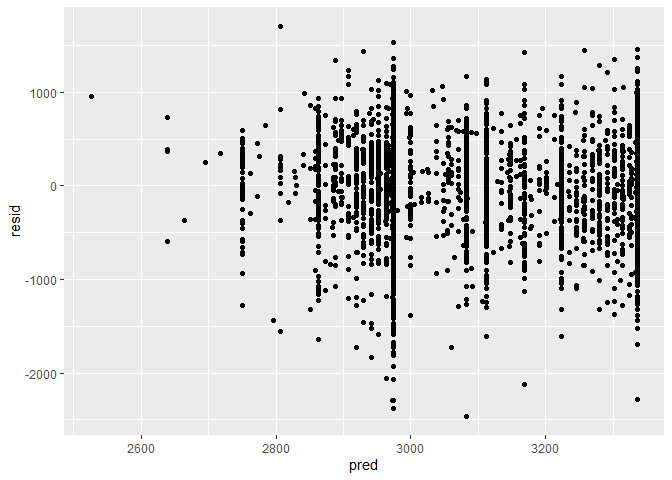
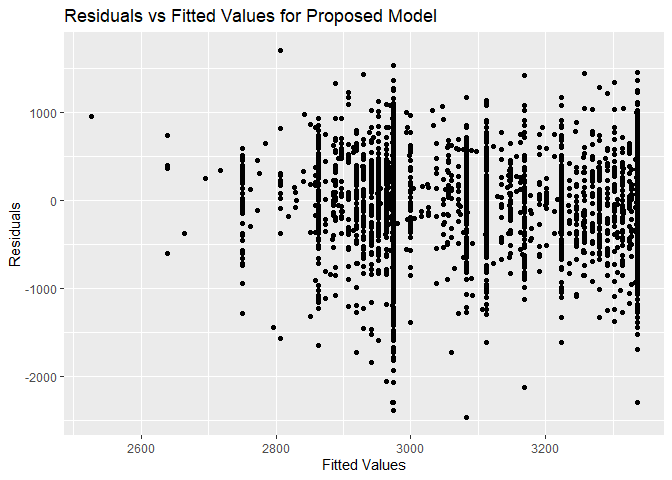
Added in sources for my modeling process in problem 2 and fixed axis titles on graph

diff --git a/p8105_hw6_as6183.md b/p8105_hw6_as6183.md
@@ -5,20 +5,6 @@ p8105\_hw6\_as6183
 
 ``` r
 library(tidyverse)
-```
-
-    ## -- Attaching packages ---------------------------------------- tidyverse 1.3.0 --
-
-    ## v ggplot2 3.3.2     v purrr   0.3.4
-    ## v tibble  3.0.3     v dplyr   1.0.1
-    ## v tidyr   1.1.2     v stringr 1.4.0
-    ## v readr   1.3.1     v forcats 0.5.0
-
-    ## -- Conflicts ------------------------------------------- tidyverse_conflicts() --
-    ## x dplyr::filter() masks stats::filter()
-    ## x dplyr::lag()    masks stats::lag()
-
-``` r
 #reading in homicide data, perfoming data wrangling and cleaning
 data = read.csv("./data/homicide-data.csv")%>% 
   mutate(city_state = str_c(city,state,sep=", "), 
@@ -27,15 +13,7 @@ data = read.csv("./data/homicide-data.csv")%>%
   filter(victim_race == "Black" | victim_race == "White")%>%
   mutate(victim_age = as.numeric(victim_age),
          victim_race = fct_relevel(victim_race, "White"))
-```
 
-    ## Warning: Problem with `mutate()` input `victim_age`.
-    ## x NAs introduced by coercion
-    ## i Input `victim_age` is `as.numeric(victim_age)`.
-
-    ## Warning in mask$eval_all_mutate(dots[[i]]): NAs introduced by coercion
-
-``` r
 #glm only for baltimore
 
 glm_Bmore = data%>%
@@ -51,8 +29,6 @@ glm_Bmore%>%
   select(term, log_OR = estimate, OR, p.value,conf.low,conf.high)%>% 
   knitr::kable(digits = 3)
 ```
-
-    ## Waiting for profiling to be done...
 
 |                   | term              | log\_OR |    OR | p.value | conf.low | conf.high |
 | :---------------- | :---------------- | ------: | ----: | ------: | -------: | --------: |
@@ -78,79 +54,7 @@ glm_all =
   rename(conf.low = `2.5 %`,
          conf.high = `97.5 %`)%>%
   select(city_state,term,OR, p.value,conf.low,conf.high) 
-```
 
-    ## Waiting for profiling to be done...
-
-    ## Warning: Problem with `mutate()` input `..1`.
-    ## x glm.fit: fitted probabilities numerically 0 or 1 occurred
-    ## i Input `..1` is `map_dfr(.x = models, .f = ~exp(confint(.x, "victim_raceBlack")))`.
-
-    ## Warning: glm.fit: fitted probabilities numerically 0 or 1 occurred
-
-    ## Waiting for profiling to be done...
-
-    ## Waiting for profiling to be done...
-    ## Waiting for profiling to be done...
-    ## Waiting for profiling to be done...
-    ## Waiting for profiling to be done...
-    ## Waiting for profiling to be done...
-    ## Waiting for profiling to be done...
-    ## Waiting for profiling to be done...
-    ## Waiting for profiling to be done...
-    ## Waiting for profiling to be done...
-    ## Waiting for profiling to be done...
-    ## Waiting for profiling to be done...
-    ## Waiting for profiling to be done...
-    ## Waiting for profiling to be done...
-    ## Waiting for profiling to be done...
-    ## Waiting for profiling to be done...
-    ## Waiting for profiling to be done...
-    ## Waiting for profiling to be done...
-    ## Waiting for profiling to be done...
-    ## Waiting for profiling to be done...
-    ## Waiting for profiling to be done...
-    ## Waiting for profiling to be done...
-    ## Waiting for profiling to be done...
-    ## Waiting for profiling to be done...
-    ## Waiting for profiling to be done...
-    ## Waiting for profiling to be done...
-    ## Waiting for profiling to be done...
-    ## Waiting for profiling to be done...
-    ## Waiting for profiling to be done...
-    ## Waiting for profiling to be done...
-    ## Waiting for profiling to be done...
-    ## Waiting for profiling to be done...
-    ## Waiting for profiling to be done...
-    ## Waiting for profiling to be done...
-
-    ## Warning: Problem with `mutate()` input `..1`.
-    ## x glm.fit: fitted probabilities numerically 0 or 1 occurred
-    ## i Input `..1` is `map_dfr(.x = models, .f = ~exp(confint(.x, "victim_raceBlack")))`.
-    
-    ## Warning: glm.fit: fitted probabilities numerically 0 or 1 occurred
-
-    ## Waiting for profiling to be done...
-    ## Waiting for profiling to be done...
-    ## Waiting for profiling to be done...
-
-    ## Warning: Problem with `mutate()` input `..1`.
-    ## x glm.fit: fitted probabilities numerically 0 or 1 occurred
-    ## i Input `..1` is `map_dfr(.x = models, .f = ~exp(confint(.x, "victim_raceBlack")))`.
-    
-    ## Warning: glm.fit: fitted probabilities numerically 0 or 1 occurred
-
-    ## Waiting for profiling to be done...
-    ## Waiting for profiling to be done...
-    ## Waiting for profiling to be done...
-    ## Waiting for profiling to be done...
-    ## Waiting for profiling to be done...
-    ## Waiting for profiling to be done...
-    ## Waiting for profiling to be done...
-    ## Waiting for profiling to be done...
-    ## Waiting for profiling to be done...
-
-``` r
 #plotting the distribution of OR values calculated from Glm model above
 
 glm_all%>%
@@ -207,11 +111,7 @@ Proposed Regression Model:
 
 ``` r
 library(modelr)
-```
 
-    ## Warning: package 'modelr' was built under R version 4.0.3
-
-``` r
 proposed_model = lm(bwt~frace+malform+mrace+smoken,data = data) #proposed model for determining birthweight
 
 proposed_model%>% 
@@ -237,7 +137,9 @@ proposed_model%>%
 data%>%
   modelr::add_residuals(proposed_model)%>%
   modelr::add_predictions(proposed_model)%>%
-  ggplot(aes(pred,resid))+geom_point() #adding residuals and predictions to model and graphing
+  ggplot(aes(pred,resid))+
+  geom_point()+
+  labs(x = "Fitted Values", y= "Residuals", title = "Residuals vs Fitted Values for Proposed Model")#adding residuals and predictions to model and graphing
 ```
 
 ![](p8105_hw6_as6183_files/figure-gfm/unnamed-chunk-3-1.png)<!-- -->
@@ -247,11 +149,13 @@ data%>%
 For the modeling process I wanted to adjust for variables that I thought
 would be important indicators of the baby’s birthweight. The variables I
 chose to adjust for were father/mother’s race because I know that baby’s
-weight can vary drastically depending on their race, the presence of
-malformations that could affect weight because it says it could affect
-weight in the problem, and finally the average number of cigarettes
-smoked per day by the mother as that has been shown to affect the baby’s
-health in numerous studies.
+weight can vary drastically depending on their race
+[\[1\]](https://www.nature.com/articles/7210703#:~:text=Asian%2C%20Hispanic%20and%20Other%20male,weights%20than%20White%20female%20infants),
+the presence of malformations that could affect weight because it says
+it could affect weight in the problem, and finally the average number of
+cigarettes smoked per day by the mother as that has been shown to affect
+the baby’s health in numerous studies
+[\[2\]](https://www.sciencedirect.com/science/article/abs/pii/S0002937816331374?via%3Dihub).
 
 ``` r
 #seperating data into partitions for testing each model to determine optimal one
@@ -303,13 +207,7 @@ models.
 
 ``` r
 library(rnoaa)
-```
 
-    ## Registered S3 method overwritten by 'hoardr':
-    ##   method           from
-    ##   print.cache_info httr
-
-``` r
 #reading in data and cleaning
 
 weather_df = 
@@ -323,15 +221,7 @@ weather_df =
     tmin = tmin / 10,
     tmax = tmax / 10) %>%
   select(name, id, everything())
-```
 
-    ## using cached file: C:\Users\13038\AppData\Local\Cache/R/noaa_ghcnd/USW00094728.dly
-
-    ## date created (size, mb): 2020-11-23 08:30:22 (7.547)
-
-    ## file min/max dates: 1869-01-01 / 2020-11-30
-
-``` r
 #setting up bootstrap samples to generate r.squared and log(B0B1) values
 
 boot_sample = function(df) {
@@ -343,14 +233,7 @@ boot_straps =
     strap_number = 1:5000,
     strap_sample = rerun(5000, boot_sample(weather_df))
   )
-```
 
-    ## Warning: `data_frame()` is deprecated as of tibble 1.1.0.
-    ## Please use `tibble()` instead.
-    ## This warning is displayed once every 8 hours.
-    ## Call `lifecycle::last_warnings()` to see where this warning was generated.
-
-``` r
 #runnning bootstrap samples through model and extracting r.squared and log(B0B1) values 
 
 bootstrap_results = 
@@ -457,7 +340,7 @@ ci\_upper
 
 <td style="text-align:right;">
 
-0.928
+0.927
 
 </td>
 
@@ -512,7 +395,7 @@ ci\_upper
 
 <td style="text-align:right;">
 
-2.06
+2.058
 
 </td>
 
